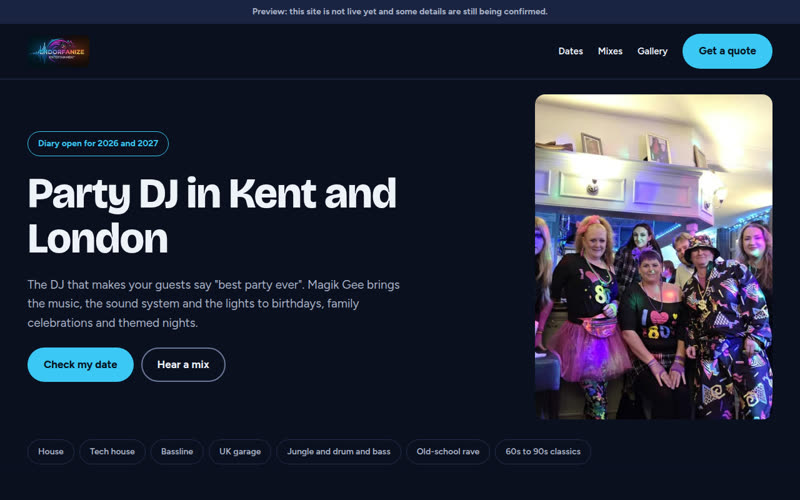
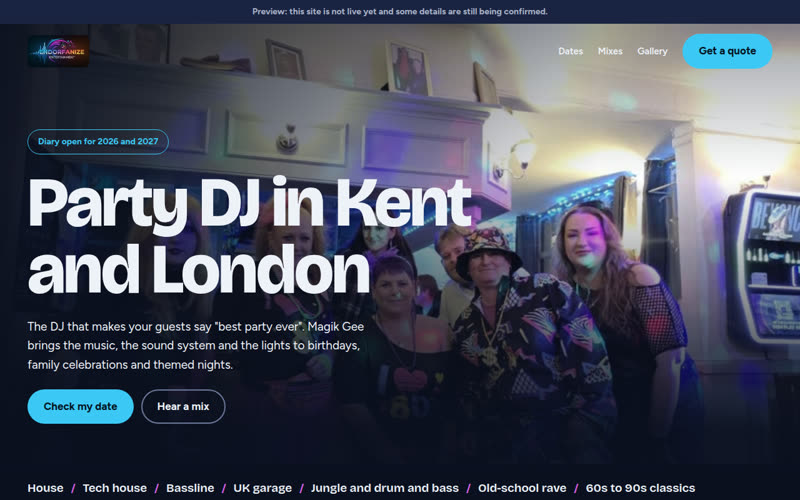
Redesign the Night look as a gig poster layout

diff --git a/light/index.html b/light/index.html
@@ -25,7 +25,7 @@
 <script src="js/main.js" defer></script>
 <script type="application/ld+json">{"@context": "https://schema.org", "@graph": [{"@type": "WebSite", "@id": "https://endorfanize.com/#website", "name": "Endorfanize Entertainment", "url": "https://endorfanize.com/", "publisher": {"@id": "https://endorfanize.com/#business"}}, {"@type": "EntertainmentBusiness", "@id": "https://endorfanize.com/#business", "name": "Endorfanize Entertainment", "alternateName": "Magik Gee", "url": "https://endorfanize.com/", "logo": {"@type": "ImageObject", "url": "https://endorfanize.com/img/logo-1200.jpg"}, "image": "https://endorfanize.com/img/og-1200x630.jpg", "description": "Magik Gee (Gene Sheldrick) of Endorfanize Entertainment is a Kent DJ for birthdays, family celebrations and private parties. Music, sound and lights included.", "email": "endorfanizeentertainment@outlook.com", "telephone": "+447594601259", "contactPoint": {"@type": "ContactPoint", "contactType": "bookings", "email": "endorfanizeentertainment@outlook.com", "telephone": "+447594601259", "availableLanguage": "en"}, "areaServed": [{"@type": "AdministrativeArea", "name": "Kent"}, {"@type": "AdministrativeArea", "name": "Greater London"}], "founder": {"@id": "https://endorfanize.com/#gene"}, "sameAs": ["https://www.mixcloud.com/magikgee/", "https://www.instagram.com/magik_gee92/", "https://www.tiktok.com/@endorfanize.enter", "https://www.facebook.com/share/1BKctca8y5/"], "hasOfferCatalog": {"@type": "OfferCatalog", "name": "Party DJ services", "itemListElement": [{"@type": "Offer", "itemOffered": {"@type": "Service", "name": "Birthday parties", "description": "18ths, 30ths, 50ths and every one in between. Party classics from the 60s to the 90s, or house all night.", "provider": {"@id": "https://endorfanize.com/#business"}}}, {"@type": "Offer", "itemOffered": {"@type": "Service", "name": "Family celebrations", "description": "Anniversaries, engagements and get-togethers, with music every generation knows.", "provider": {"@id": "https://endorfanize.com/#business"}}}, {"@type": "Offer", "itemOffered": {"@type": "Service", "name": "Themed nights", "description": "80s nights and fancy dress parties, like the 80s Party at The Beech Tree.", "provider": {"@id": "https://endorfanize.com/#business"}}}]}}, {"@type": "Person", "@id": "https://endorfanize.com/#gene", "name": "Gene Sheldrick", "alternateName": "Magik Gee", "jobTitle": "DJ", "worksFor": {"@id": "https://endorfanize.com/#business"}, "sameAs": ["https://www.mixcloud.com/magikgee/", "https://www.instagram.com/magik_gee92/", "https://www.tiktok.com/@endorfanize.enter", "https://www.facebook.com/share/1BKctca8y5/"]}]}</script>
 </head>
-<body>
+<body class="page-home">
 <a class="skip" href="#main">Skip to content</a>
 <div class="preview-banner">Preview: this site is not live yet and some details are still being confirmed.</div>
 <header class="site-header">
@@ -42,6 +42,7 @@
   </div>
 </header>
 <main id="main">
+<div class="hero-shell">
 <section class="wrap hero" aria-labelledby="hero-h">
   <div class="hero-copy">
     <span class="pill">Diary open for 2026 and 2027</span>
@@ -57,6 +58,7 @@
     
   </div>
 </section>
+</div>
 <div class="wrap"><ul class="genres" aria-label="Music styles"><li>House</li><li>Tech house</li><li>Bassline</li><li>UK garage</li><li>Jungle and drum and bass</li><li>Old-school rave</li><li>60s to 90s classics</li></ul></div>
 
 <section class="wrap section" aria-labelledby="services-h">
@@ -64,7 +66,7 @@
     <h2 id="services-h">Party DJ services</h2>
     <p class="lead">Every booking gets music matched to your crowd, with clean or explicit versions to suit.</p>
   </div>
-  <div class="grid"><article class="card tint-peach"><h3>Birthday parties</h3><p>18ths, 30ths, 50ths and every one in between. Party classics from the 60s to the 90s, or house all night.</p><a class="price" href="book/#enquire" aria-label="Get a quote for birthday parties">Get a quote</a></article>
+  <div class="grid services"><article class="card tint-peach"><h3>Birthday parties</h3><p>18ths, 30ths, 50ths and every one in between. Party classics from the 60s to the 90s, or house all night.</p><a class="price" href="book/#enquire" aria-label="Get a quote for birthday parties">Get a quote</a></article>
 <article class="card tint-sky"><h3>Family celebrations</h3><p>Anniversaries, engagements and get-togethers, with music every generation knows.</p><a class="price" href="book/#enquire" aria-label="Get a quote for family celebrations">Get a quote</a></article>
 <article class="card tint-lilac"><h3>Themed nights</h3><p>80s nights and fancy dress parties, like the 80s Party at The Beech Tree.</p><a class="price" href="book/#enquire" aria-label="Get a quote for themed nights">Get a quote</a></article></div>
   <ul class="included" aria-label="Included with every booking"><li><svg width="18" height="18" viewBox="0 0 24 24" fill="none" stroke="currentColor" stroke-width="3" stroke-linecap="round" stroke-linejoin="round" aria-hidden="true"><path d="M20 6 9 17l-5-5"/></svg><span>Music matched to your crowd, with clean or explicit versions</span></li><li><svg width="18" height="18" viewBox="0 0 24 24" fill="none" stroke="currentColor" stroke-width="3" stroke-linecap="round" stroke-linejoin="round" aria-hidden="true"><path d="M20 6 9 17l-5-5"/></svg><span>Sound system and party lighting</span></li><li><svg width="18" height="18" viewBox="0 0 24 24" fill="none" stroke="currentColor" stroke-width="3" stroke-linecap="round" stroke-linejoin="round" aria-hidden="true"><path d="M20 6 9 17l-5-5"/></svg><span>Set-up and pack-down</span></li><li><svg width="18" height="18" viewBox="0 0 24 24" fill="none" stroke="currentColor" stroke-width="3" stroke-linecap="round" stroke-linejoin="round" aria-hidden="true"><path d="M20 6 9 17l-5-5"/></svg><span>Requests on the night</span></li></ul>
@@ -98,9 +100,8 @@
 <section class="wrap section" aria-labelledby="about-h">
   <div class="about">
     <div class="section-head"><h2 id="about-h">Meet Gene Sheldrick, aka Magik Gee</h2></div>
-    <div class="about-copy"><p>Magik Gee is the DJ name of Gene Sheldrick, who runs Endorfanize Entertainment. He brings the music, the sound system and the lights, then reads the room to keep the dance floor full until the end.</p><p>His sets run from party classics of the 60s to the 90s through to house, bassline, UK garage, jungle and old-school rave, matched to your crowd. In March 2026 he played the 80s Party at The Beech Tree in St Mary Cray, and his mixes are on Mixcloud.</p>
-      <p class="motto-line">"It&#x27;s nice to be important but it&#x27;s more important to be nice."</p>
-    </div>
+    <div class="about-copy"><p>Magik Gee is the DJ name of Gene Sheldrick, who runs Endorfanize Entertainment. He brings the music, the sound system and the lights, then reads the room to keep the dance floor full until the end.</p><p>His sets run from party classics of the 60s to the 90s through to house, bassline, UK garage, jungle and old-school rave, matched to your crowd. In March 2026 he played the 80s Party at The Beech Tree in St Mary Cray, and his mixes are on Mixcloud.</p></div>
+    <p class="motto-line">"It&#x27;s nice to be important but it&#x27;s more important to be nice."</p>
   </div>
 </section>
 

diff --git a/night/index.html b/night/index.html
@@ -25,7 +25,7 @@
 <script src="js/main.js" defer></script>
 <script type="application/ld+json">{"@context": "https://schema.org", "@graph": [{"@type": "WebSite", "@id": "https://endorfanize.com/#website", "name": "Endorfanize Entertainment", "url": "https://endorfanize.com/", "publisher": {"@id": "https://endorfanize.com/#business"}}, {"@type": "EntertainmentBusiness", "@id": "https://endorfanize.com/#business", "name": "Endorfanize Entertainment", "alternateName": "Magik Gee", "url": "https://endorfanize.com/", "logo": {"@type": "ImageObject", "url": "https://endorfanize.com/img/logo-1200.jpg"}, "image": "https://endorfanize.com/img/og-1200x630.jpg", "description": "Magik Gee (Gene Sheldrick) of Endorfanize Entertainment is a Kent DJ for birthdays, family celebrations and private parties. Music, sound and lights included.", "email": "endorfanizeentertainment@outlook.com", "telephone": "+447594601259", "contactPoint": {"@type": "ContactPoint", "contactType": "bookings", "email": "endorfanizeentertainment@outlook.com", "telephone": "+447594601259", "availableLanguage": "en"}, "areaServed": [{"@type": "AdministrativeArea", "name": "Kent"}, {"@type": "AdministrativeArea", "name": "Greater London"}], "founder": {"@id": "https://endorfanize.com/#gene"}, "sameAs": ["https://www.mixcloud.com/magikgee/", "https://www.instagram.com/magik_gee92/", "https://www.tiktok.com/@endorfanize.enter", "https://www.facebook.com/share/1BKctca8y5/"], "hasOfferCatalog": {"@type": "OfferCatalog", "name": "Party DJ services", "itemListElement": [{"@type": "Offer", "itemOffered": {"@type": "Service", "name": "Birthday parties", "description": "18ths, 30ths, 50ths and every one in between. Party classics from the 60s to the 90s, or house all night.", "provider": {"@id": "https://endorfanize.com/#business"}}}, {"@type": "Offer", "itemOffered": {"@type": "Service", "name": "Family celebrations", "description": "Anniversaries, engagements and get-togethers, with music every generation knows.", "provider": {"@id": "https://endorfanize.com/#business"}}}, {"@type": "Offer", "itemOffered": {"@type": "Service", "name": "Themed nights", "description": "80s nights and fancy dress parties, like the 80s Party at The Beech Tree.", "provider": {"@id": "https://endorfanize.com/#business"}}}]}}, {"@type": "Person", "@id": "https://endorfanize.com/#gene", "name": "Gene Sheldrick", "alternateName": "Magik Gee", "jobTitle": "DJ", "worksFor": {"@id": "https://endorfanize.com/#business"}, "sameAs": ["https://www.mixcloud.com/magikgee/", "https://www.instagram.com/magik_gee92/", "https://www.tiktok.com/@endorfanize.enter", "https://www.facebook.com/share/1BKctca8y5/"]}]}</script>
 </head>
-<body>
+<body class="page-home">
 <a class="skip" href="#main">Skip to content</a>
 <div class="preview-banner">Preview: this site is not live yet and some details are still being confirmed.</div>
 <header class="site-header">
@@ -42,6 +42,7 @@
   </div>
 </header>
 <main id="main">
+<div class="hero-shell">
 <section class="wrap hero" aria-labelledby="hero-h">
   <div class="hero-copy">
     <span class="pill">Diary open for 2026 and 2027</span>
@@ -57,6 +58,7 @@
     
   </div>
 </section>
+</div>
 <div class="wrap"><ul class="genres" aria-label="Music styles"><li>House</li><li>Tech house</li><li>Bassline</li><li>UK garage</li><li>Jungle and drum and bass</li><li>Old-school rave</li><li>60s to 90s classics</li></ul></div>
 
 <section class="wrap section" aria-labelledby="services-h">
@@ -64,7 +66,7 @@
     <h2 id="services-h">Party DJ services</h2>
     <p class="lead">Every booking gets music matched to your crowd, with clean or explicit versions to suit.</p>
   </div>
-  <div class="grid"><article class="card tint-peach"><h3>Birthday parties</h3><p>18ths, 30ths, 50ths and every one in between. Party classics from the 60s to the 90s, or house all night.</p><a class="price" href="book/#enquire" aria-label="Get a quote for birthday parties">Get a quote</a></article>
+  <div class="grid services"><article class="card tint-peach"><h3>Birthday parties</h3><p>18ths, 30ths, 50ths and every one in between. Party classics from the 60s to the 90s, or house all night.</p><a class="price" href="book/#enquire" aria-label="Get a quote for birthday parties">Get a quote</a></article>
 <article class="card tint-sky"><h3>Family celebrations</h3><p>Anniversaries, engagements and get-togethers, with music every generation knows.</p><a class="price" href="book/#enquire" aria-label="Get a quote for family celebrations">Get a quote</a></article>
 <article class="card tint-lilac"><h3>Themed nights</h3><p>80s nights and fancy dress parties, like the 80s Party at The Beech Tree.</p><a class="price" href="book/#enquire" aria-label="Get a quote for themed nights">Get a quote</a></article></div>
   <ul class="included" aria-label="Included with every booking"><li><svg width="18" height="18" viewBox="0 0 24 24" fill="none" stroke="currentColor" stroke-width="3" stroke-linecap="round" stroke-linejoin="round" aria-hidden="true"><path d="M20 6 9 17l-5-5"/></svg><span>Music matched to your crowd, with clean or explicit versions</span></li><li><svg width="18" height="18" viewBox="0 0 24 24" fill="none" stroke="currentColor" stroke-width="3" stroke-linecap="round" stroke-linejoin="round" aria-hidden="true"><path d="M20 6 9 17l-5-5"/></svg><span>Sound system and party lighting</span></li><li><svg width="18" height="18" viewBox="0 0 24 24" fill="none" stroke="currentColor" stroke-width="3" stroke-linecap="round" stroke-linejoin="round" aria-hidden="true"><path d="M20 6 9 17l-5-5"/></svg><span>Set-up and pack-down</span></li><li><svg width="18" height="18" viewBox="0 0 24 24" fill="none" stroke="currentColor" stroke-width="3" stroke-linecap="round" stroke-linejoin="round" aria-hidden="true"><path d="M20 6 9 17l-5-5"/></svg><span>Requests on the night</span></li></ul>
@@ -98,9 +100,8 @@
 <section class="wrap section" aria-labelledby="about-h">
   <div class="about">
     <div class="section-head"><h2 id="about-h">Meet Gene Sheldrick, aka Magik Gee</h2></div>
-    <div class="about-copy"><p>Magik Gee is the DJ name of Gene Sheldrick, who runs Endorfanize Entertainment. He brings the music, the sound system and the lights, then reads the room to keep the dance floor full until the end.</p><p>His sets run from party classics of the 60s to the 90s through to house, bassline, UK garage, jungle and old-school rave, matched to your crowd. In March 2026 he played the 80s Party at The Beech Tree in St Mary Cray, and his mixes are on Mixcloud.</p>
-      <p class="motto-line">"It&#x27;s nice to be important but it&#x27;s more important to be nice."</p>
-    </div>
+    <div class="about-copy"><p>Magik Gee is the DJ name of Gene Sheldrick, who runs Endorfanize Entertainment. He brings the music, the sound system and the lights, then reads the room to keep the dance floor full until the end.</p><p>His sets run from party classics of the 60s to the 90s through to house, bassline, UK garage, jungle and old-school rave, matched to your crowd. In March 2026 he played the 80s Party at The Beech Tree in St Mary Cray, and his mixes are on Mixcloud.</p></div>
+    <p class="motto-line">"It&#x27;s nice to be important but it&#x27;s more important to be nice."</p>
   </div>
 </section>
 

diff --git a/night/css/style.css b/night/css/style.css
@@ -220,7 +220,7 @@ p { margin: 0; }
 .about { background: var(--surface); border: 1px solid var(--line); border-radius: var(--radius); padding: clamp(24px, 5vw, 48px); }
 .about-copy { display: flex; flex-direction: column; gap: 16px; max-width: 720px; }
 .about-copy p { margin: 0; }
-.motto-line { font-family: var(--display); font-size: var(--fs-lg); color: var(--accent); }
+.motto-line { font-family: var(--display); font-size: var(--fs-lg); color: var(--accent); margin-top: 16px; }
 .faq { display: flex; flex-direction: column; gap: 12px; max-width: 820px; }
 .faq details { background: var(--surface); border: 1px solid var(--line); border-radius: 16px; padding: 16px 20px; }
 .faq summary { font-weight: 700; cursor: pointer; }
@@ -303,3 +303,88 @@ p { margin: 0; }
 .enquiry input:focus, .enquiry select:focus, .enquiry textarea:focus { border-color: var(--accent); }
 .enquiry select option { background: var(--bg); color: var(--ink); }
 .brand img, .footer-logo { border-radius: 8px; }
+
+/* ---------- Night layout: a gig poster, not a template ---------- */
+:root {
+  --fs-hero: clamp(48px, 9vw, 112px);
+  --scrim: rgba(11, 16, 32, 0.96);
+  --scrim-mid: rgba(11, 16, 32, 0.4);
+  --scrim-clear: rgba(11, 16, 32, 0);
+  --ease: 200ms ease;
+}
+@media (prefers-reduced-motion: no-preference) {
+  .btn, a, .card { transition: background-color var(--ease), color var(--ease), border-color var(--ease); }
+}
+
+/* Header floats over the home hero */
+.page-home .site-header { position: absolute; left: 0; right: 0; border-bottom: 0; }
+
+/* Hero: the 80s night photo full width, headline set big at the bottom left */
+.hero-shell { position: relative; isolation: isolate; min-height: min(88vh, 860px); display: flex; align-items: flex-end; padding: 136px 0 64px; overflow: hidden; }
+.hero-shell .hero { display: block; padding-top: 0; width: 100%; }
+.hero-shell .hero-media { position: absolute; inset: 0; z-index: -1; }
+.hero-shell .hero-media img { width: 100%; height: 100%; border-radius: 0; object-fit: cover; object-position: center 35%; }
+.hero-shell .hero-media::after { content: ""; position: absolute; inset: 0; background: linear-gradient(180deg, var(--scrim-mid) 0%, var(--scrim-clear) 35%, var(--scrim) 92%), linear-gradient(90deg, var(--scrim) 0%, var(--scrim-clear) 75%); }
+.hero-shell .hero-copy { max-width: 820px; gap: 24px; }
+.hero-shell h1 { font-size: var(--fs-hero); line-height: 0.95; letter-spacing: -0.03em; }
+.hero-shell .lead { color: var(--ink); max-width: 560px; }
+.hero-shell .float-card { left: auto; right: 24px; bottom: 24px; }
+
+/* Genres as a flyer line-up */
+.genres { gap: 4px 0; margin-top: 0; padding: 24px 0; border-bottom: 1px solid var(--line); }
+.genres li { border: 0; padding: 0; border-radius: 0; font-family: var(--display); font-size: var(--fs-md); color: var(--ink); }
+.genres li:not(:last-child)::after { content: "/"; color: var(--marker); margin: 0 12px; }
+
+/* Section heads: heading left, lead right on wide screens */
+@media (min-width: 900px) {
+  .section-head:has(.lead) { flex-direction: row; align-items: flex-end; justify-content: space-between; gap: 48px; }
+  .section-head:has(.lead) .lead { max-width: 440px; }
+}
+
+/* Services: one big photo panel for the main booking, the rest beside it */
+.services { display: grid; grid-template-columns: 1fr; gap: 16px; }
+.services .card { border: 1px solid var(--line); border-radius: var(--radius); padding: 28px; background: var(--surface); }
+.services .card:first-child { min-height: 380px; justify-content: flex-end; border-color: var(--line); background: linear-gradient(180deg, var(--scrim-clear) 15%, var(--scrim) 80%), url("../img/20260328_215301-800.jpg") center / cover; }
+.services .card:first-child h3 { font-size: var(--fs-2xl); margin-top: auto; }
+.services .card:first-child .price { margin-top: 0; }
+.services .card:first-child p { color: var(--ink); max-width: 420px; }
+@media (min-width: 760px) {
+  .services { grid-template-columns: 1.5fr 1fr; grid-template-rows: auto auto; }
+  .services .card:first-child { grid-row: span 2; min-height: 460px; }
+}
+.included { border-top: 0; }
+
+/* Steps: big outlined numbers, rave-flyer style */
+.steps { gap: 0; border-top: 1px solid var(--line); }
+.steps li { border-top: 0; padding: 32px 24px 32px 0; }
+.steps li::before { font-size: 88px; color: transparent; -webkit-text-stroke: 2px var(--marker); margin-bottom: 8px; }
+@media (min-width: 760px) {
+  .steps li + li { border-left: 1px solid var(--line); padding-left: 24px; }
+}
+
+/* Gallery: a mosaic with one big shot */
+.gallery { grid-template-columns: repeat(2, 1fr); grid-auto-rows: 160px; grid-auto-flow: dense; gap: 8px; }
+.gallery img, .gallery-wide img { height: 100%; border-radius: 6px; }
+/* Spans are counted so the grid closes with no gaps: home has 10 photos, the gallery page 12. */
+.gallery img:first-child { grid-column: span 2; grid-row: span 2; }
+.gallery:not(.gallery-wide) img:nth-child(4), .gallery:not(.gallery-wide) img:nth-child(7), .gallery:not(.gallery-wide) img:nth-child(10),
+.gallery-wide img:nth-child(8) { grid-column: span 2; }
+@media (min-width: 760px) {
+  .gallery { grid-template-columns: repeat(4, 1fr); grid-auto-rows: 200px; }
+}
+
+/* About: the motto set large, the story beside it */
+.about { display: grid; grid-template-columns: 1fr; gap: 24px 64px; background: none; border: 0; border-radius: 0; padding: 48px 0 0; border-top: 1px solid var(--line); }
+.about .section-head { margin-bottom: 0; }
+.about .motto-line { margin: 0; font-size: clamp(28px, 3.6vw, 44px); line-height: 1.1; color: var(--ink); }
+.about .motto-line::first-letter { color: var(--marker); }
+@media (min-width: 900px) {
+  .about { grid-template-columns: 1fr 1.1fr; }
+  .about .section-head { grid-column: 1 / -1; }
+  .about .motto-line { grid-column: 1; grid-row: 2; }
+  .about .about-copy { grid-column: 2; grid-row: 2; }
+}
+
+/* Footer: close the page quietly */
+.site-footer { background: var(--surface); }
+.footer-grid .plain-list { flex-direction: row; flex-wrap: wrap; gap: 8px 20px; }

diff --git a/light/book/index.html b/light/book/index.html
@@ -25,7 +25,7 @@
 <script src="../js/main.js" defer></script>
 <script type="application/ld+json">{"@context": "https://schema.org", "@graph": [{"@type": "BreadcrumbList", "itemListElement": [{"@type": "ListItem", "position": 1, "name": "Home", "item": "https://endorfanize.com/"}, {"@type": "ListItem", "position": 2, "name": "Book"}]}]}</script>
 </head>
-<body>
+<body class="page-book">
 <a class="skip" href="#main">Skip to content</a>
 <div class="preview-banner">Preview: this site is not live yet and some details are still being confirmed.</div>
 <header class="site-header">
@@ -90,7 +90,7 @@
 
 <section class="wrap section" aria-labelledby="services-h">
   <div class="section-head"><h2 id="services-h">Party DJ services</h2></div>
-  <div class="grid"><article class="card tint-peach"><h3>Birthday parties</h3><p>18ths, 30ths, 50ths and every one in between. Party classics from the 60s to the 90s, or house all night.</p><a class="price" href="../book/#enquire" aria-label="Get a quote for birthday parties">Get a quote</a></article>
+  <div class="grid services"><article class="card tint-peach"><h3>Birthday parties</h3><p>18ths, 30ths, 50ths and every one in between. Party classics from the 60s to the 90s, or house all night.</p><a class="price" href="../book/#enquire" aria-label="Get a quote for birthday parties">Get a quote</a></article>
 <article class="card tint-sky"><h3>Family celebrations</h3><p>Anniversaries, engagements and get-togethers, with music every generation knows.</p><a class="price" href="../book/#enquire" aria-label="Get a quote for family celebrations">Get a quote</a></article>
 <article class="card tint-lilac"><h3>Themed nights</h3><p>80s nights and fancy dress parties, like the 80s Party at The Beech Tree.</p><a class="price" href="../book/#enquire" aria-label="Get a quote for themed nights">Get a quote</a></article></div>
   <ul class="included" aria-label="Included with every booking"><li><svg width="18" height="18" viewBox="0 0 24 24" fill="none" stroke="currentColor" stroke-width="3" stroke-linecap="round" stroke-linejoin="round" aria-hidden="true"><path d="M20 6 9 17l-5-5"/></svg><span>Music matched to your crowd, with clean or explicit versions</span></li><li><svg width="18" height="18" viewBox="0 0 24 24" fill="none" stroke="currentColor" stroke-width="3" stroke-linecap="round" stroke-linejoin="round" aria-hidden="true"><path d="M20 6 9 17l-5-5"/></svg><span>Sound system and party lighting</span></li><li><svg width="18" height="18" viewBox="0 0 24 24" fill="none" stroke="currentColor" stroke-width="3" stroke-linecap="round" stroke-linejoin="round" aria-hidden="true"><path d="M20 6 9 17l-5-5"/></svg><span>Set-up and pack-down</span></li><li><svg width="18" height="18" viewBox="0 0 24 24" fill="none" stroke="currentColor" stroke-width="3" stroke-linecap="round" stroke-linejoin="round" aria-hidden="true"><path d="M20 6 9 17l-5-5"/></svg><span>Requests on the night</span></li></ul>

diff --git a/night/book/index.html b/night/book/index.html
@@ -25,7 +25,7 @@
 <script src="../js/main.js" defer></script>
 <script type="application/ld+json">{"@context": "https://schema.org", "@graph": [{"@type": "BreadcrumbList", "itemListElement": [{"@type": "ListItem", "position": 1, "name": "Home", "item": "https://endorfanize.com/"}, {"@type": "ListItem", "position": 2, "name": "Book"}]}]}</script>
 </head>
-<body>
+<body class="page-book">
 <a class="skip" href="#main">Skip to content</a>
 <div class="preview-banner">Preview: this site is not live yet and some details are still being confirmed.</div>
 <header class="site-header">
@@ -90,7 +90,7 @@
 
 <section class="wrap section" aria-labelledby="services-h">
   <div class="section-head"><h2 id="services-h">Party DJ services</h2></div>
-  <div class="grid"><article class="card tint-peach"><h3>Birthday parties</h3><p>18ths, 30ths, 50ths and every one in between. Party classics from the 60s to the 90s, or house all night.</p><a class="price" href="../book/#enquire" aria-label="Get a quote for birthday parties">Get a quote</a></article>
+  <div class="grid services"><article class="card tint-peach"><h3>Birthday parties</h3><p>18ths, 30ths, 50ths and every one in between. Party classics from the 60s to the 90s, or house all night.</p><a class="price" href="../book/#enquire" aria-label="Get a quote for birthday parties">Get a quote</a></article>
 <article class="card tint-sky"><h3>Family celebrations</h3><p>Anniversaries, engagements and get-togethers, with music every generation knows.</p><a class="price" href="../book/#enquire" aria-label="Get a quote for family celebrations">Get a quote</a></article>
 <article class="card tint-lilac"><h3>Themed nights</h3><p>80s nights and fancy dress parties, like the 80s Party at The Beech Tree.</p><a class="price" href="../book/#enquire" aria-label="Get a quote for themed nights">Get a quote</a></article></div>
   <ul class="included" aria-label="Included with every booking"><li><svg width="18" height="18" viewBox="0 0 24 24" fill="none" stroke="currentColor" stroke-width="3" stroke-linecap="round" stroke-linejoin="round" aria-hidden="true"><path d="M20 6 9 17l-5-5"/></svg><span>Music matched to your crowd, with clean or explicit versions</span></li><li><svg width="18" height="18" viewBox="0 0 24 24" fill="none" stroke="currentColor" stroke-width="3" stroke-linecap="round" stroke-linejoin="round" aria-hidden="true"><path d="M20 6 9 17l-5-5"/></svg><span>Sound system and party lighting</span></li><li><svg width="18" height="18" viewBox="0 0 24 24" fill="none" stroke="currentColor" stroke-width="3" stroke-linecap="round" stroke-linejoin="round" aria-hidden="true"><path d="M20 6 9 17l-5-5"/></svg><span>Set-up and pack-down</span></li><li><svg width="18" height="18" viewBox="0 0 24 24" fill="none" stroke="currentColor" stroke-width="3" stroke-linecap="round" stroke-linejoin="round" aria-hidden="true"><path d="M20 6 9 17l-5-5"/></svg><span>Requests on the night</span></li></ul>

diff --git a/light/css/style.css b/light/css/style.css
@@ -220,7 +220,7 @@ p { margin: 0; }
 .about { background: var(--surface); border: 1px solid var(--line); border-radius: var(--radius); padding: clamp(24px, 5vw, 48px); }
 .about-copy { display: flex; flex-direction: column; gap: 16px; max-width: 720px; }
 .about-copy p { margin: 0; }
-.motto-line { font-family: var(--display); font-size: var(--fs-lg); color: var(--accent); }
+.motto-line { font-family: var(--display); font-size: var(--fs-lg); color: var(--accent); margin-top: 16px; }
 .faq { display: flex; flex-direction: column; gap: 12px; max-width: 820px; }
 .faq details { background: var(--surface); border: 1px solid var(--line); border-radius: 16px; padding: 16px 20px; }
 .faq summary { font-weight: 700; cursor: pointer; }

diff --git a/light/gallery/index.html b/light/gallery/index.html
@@ -25,7 +25,7 @@
 <script src="../js/main.js" defer></script>
 <script type="application/ld+json">{"@context": "https://schema.org", "@graph": [{"@type": "BreadcrumbList", "itemListElement": [{"@type": "ListItem", "position": 1, "name": "Home", "item": "https://endorfanize.com/"}, {"@type": "ListItem", "position": 2, "name": "Gallery"}]}]}</script>
 </head>
-<body>
+<body class="page-gallery">
 <a class="skip" href="#main">Skip to content</a>
 <div class="preview-banner">Preview: this site is not live yet and some details are still being confirmed.</div>
 <header class="site-header">

diff --git a/night/gallery/index.html b/night/gallery/index.html
@@ -25,7 +25,7 @@
 <script src="../js/main.js" defer></script>
 <script type="application/ld+json">{"@context": "https://schema.org", "@graph": [{"@type": "BreadcrumbList", "itemListElement": [{"@type": "ListItem", "position": 1, "name": "Home", "item": "https://endorfanize.com/"}, {"@type": "ListItem", "position": 2, "name": "Gallery"}]}]}</script>
 </head>
-<body>
+<body class="page-gallery">
 <a class="skip" href="#main">Skip to content</a>
 <div class="preview-banner">Preview: this site is not live yet and some details are still being confirmed.</div>
 <header class="site-header">

diff --git a/light/events/index.html b/light/events/index.html
@@ -25,7 +25,7 @@
 <script src="../js/main.js" defer></script>
 <script type="application/ld+json">{"@context": "https://schema.org", "@graph": [{"@type": "BreadcrumbList", "itemListElement": [{"@type": "ListItem", "position": 1, "name": "Home", "item": "https://endorfanize.com/"}, {"@type": "ListItem", "position": 2, "name": "Dates"}]}]}</script>
 </head>
-<body>
+<body class="page-events">
 <a class="skip" href="#main">Skip to content</a>
 <div class="preview-banner">Preview: this site is not live yet and some details are still being confirmed.</div>
 <header class="site-header">

diff --git a/night/events/index.html b/night/events/index.html
@@ -25,7 +25,7 @@
 <script src="../js/main.js" defer></script>
 <script type="application/ld+json">{"@context": "https://schema.org", "@graph": [{"@type": "BreadcrumbList", "itemListElement": [{"@type": "ListItem", "position": 1, "name": "Home", "item": "https://endorfanize.com/"}, {"@type": "ListItem", "position": 2, "name": "Dates"}]}]}</script>
 </head>
-<body>
+<body class="page-events">
 <a class="skip" href="#main">Skip to content</a>
 <div class="preview-banner">Preview: this site is not live yet and some details are still being confirmed.</div>
 <header class="site-header">

diff --git a/index.html b/index.html
@@ -16,7 +16,7 @@
     <a class="option" href="night/">
       <img src="assets/night.jpg" width="800" height="500" alt="Preview of the Night look: dark navy with cyan buttons">
       <span class="name">Option 1: Night</span>
-      <span class="desc">Dark navy and neon cyan from your logo. Feels like a night out, kept clean and professional.</span>
+      <span class="desc">Your logo colours, set like a gig poster: big party photo, flyer-style line-up, dark and premium.</span>
       <span class="go">Open Night</span>
     </a>
     <a class="option" href="light/">

diff --git a/light/404.html b/light/404.html
@@ -25,7 +25,7 @@
 <script src="/endorfanize-mockups/light/js/main.js" defer></script>
 
 </head>
-<body>
+<body class="page-404">
 <a class="skip" href="#main">Skip to content</a>
 <div class="preview-banner">Preview: this site is not live yet and some details are still being confirmed.</div>
 <header class="site-header">
